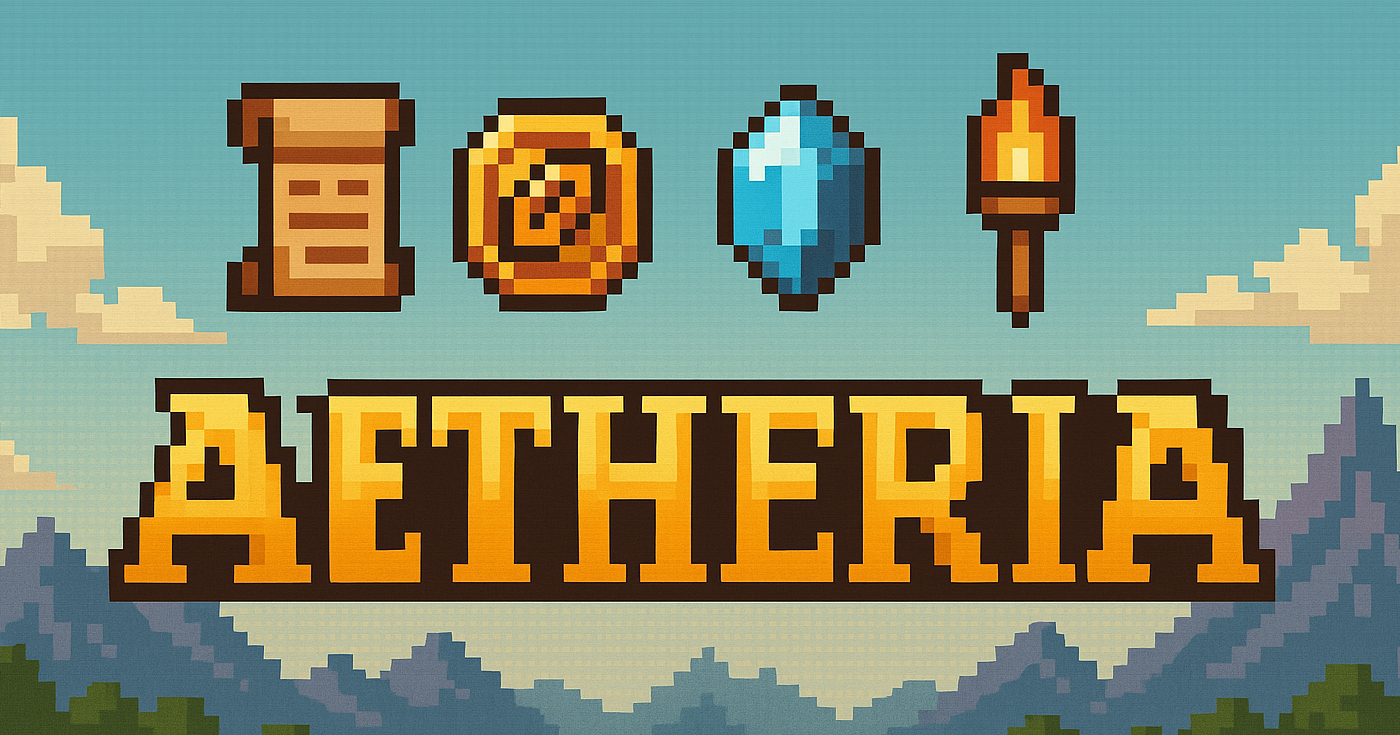
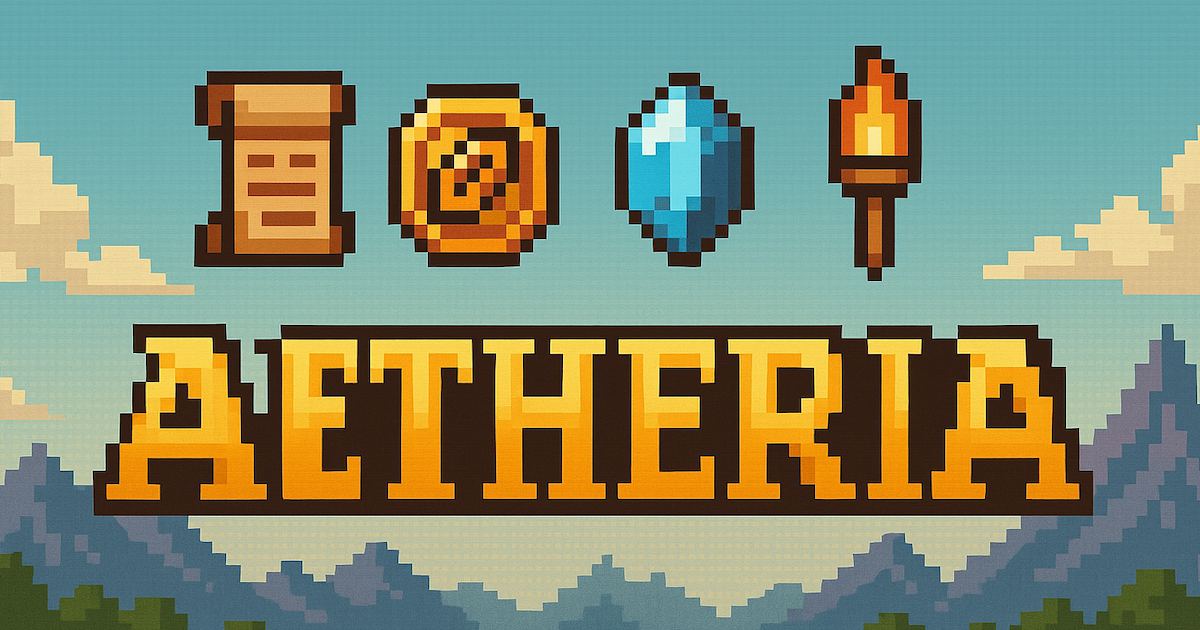
Add twitter cards and chagne size of opengraph iamge

diff --git a/frontend/mint/index.html b/frontend/mint/index.html
@@ -11,6 +11,9 @@
     <meta property="og:image" content="/og-image.png" />
     <meta property="og:url" content="https://tryaetheria.xyz" />
     <meta property="og:type" content="website" />
+    <meta name="twitter:card" content="summary_large_image">
+    <meta name="twitter:title" content="Aetheria - Start Your Adventure" />
+    <meta name="twitter:description" content="Join the Aetheria adventure and explore a Gamified Web3 Learning Experience." />
     <link href="/src/styles.css" rel="stylesheet">
     <title>Aetheria - Mint Your Avatar</title>
 </head>

diff --git a/frontend/index.html b/frontend/index.html
@@ -10,6 +10,9 @@
     <meta property="og:image" content="/og-image.png" />
     <meta property="og:url" content="https://tryaetheria.xyz" />
     <meta property="og:type" content="website" />
+    <meta name="twitter:card" content="summary_large_image">
+    <meta name="twitter:title" content="Aetheria - Start Your Adventure" />
+    <meta name="twitter:description" content="Join the Aetheria adventure and explore a Gamified Web3 Learning Experience." />
 
 
     <link href="/src/styles.css" rel="stylesheet">
